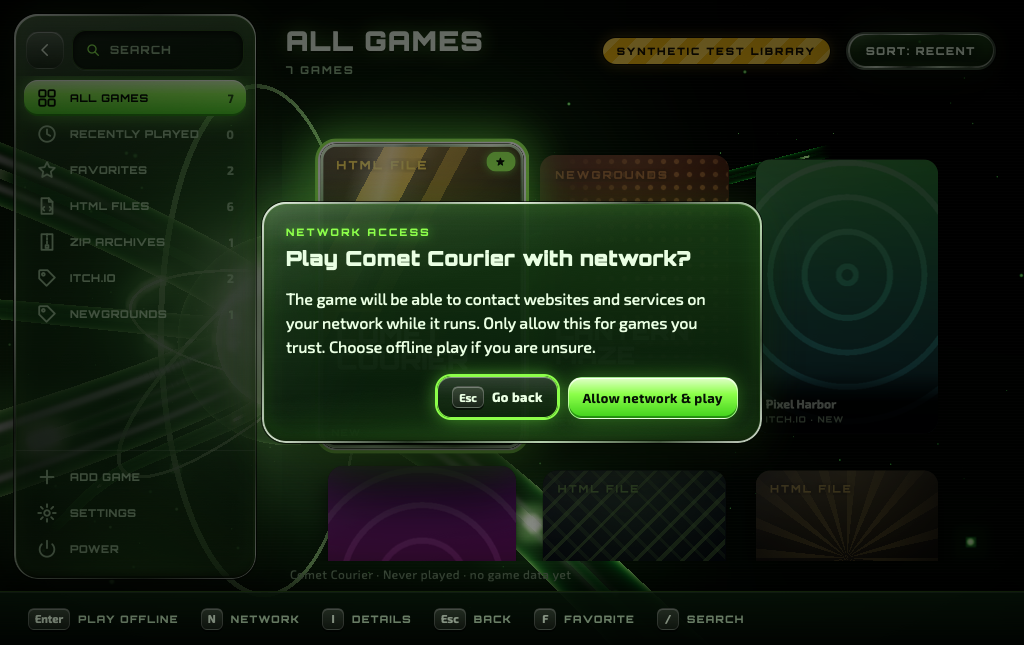
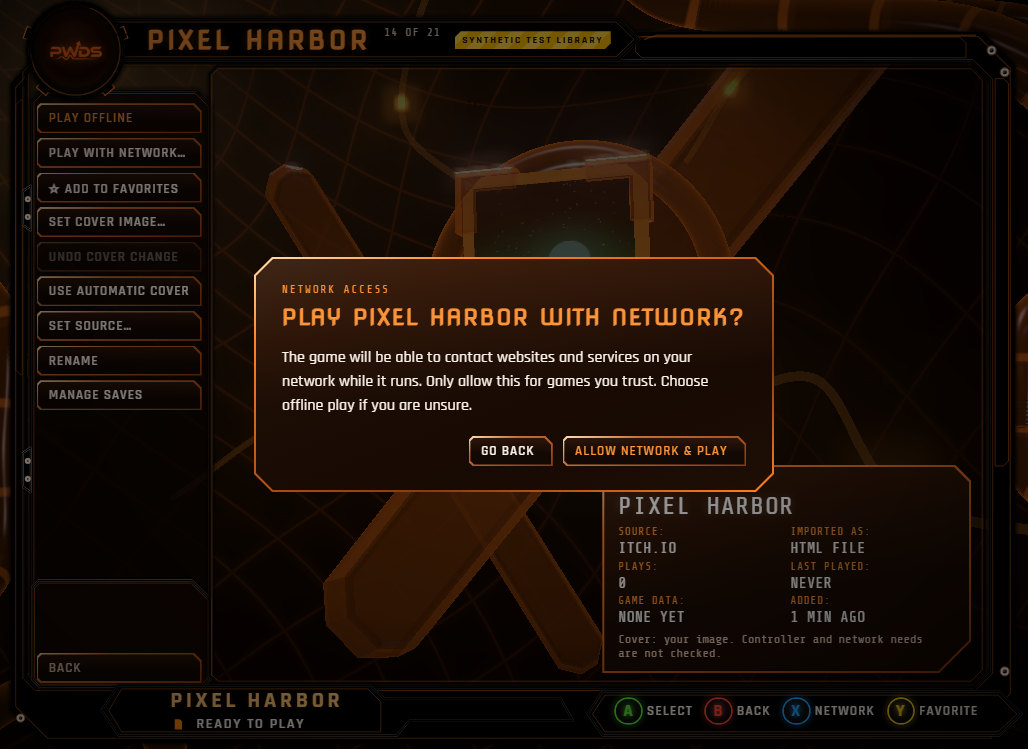
Document the Collection style with CI screenshots from all three systems
The README now describes the five styles, the dome, the cradle, the covers,
and the new input, with screenshots from Cross-platform checks run
39381032589 (Windows, Linux, and macOS), including the earlier styles. It
records how the earlier styles were shown to be unchanged, the new test
counts, credits for three.js and the bundled fonts, and the limits of this
design (panels in front of the WebGL scene, CI-only verification). The
Platforms table points at the same run.

diff --git a/README.md b/README.md
@@ -5,7 +5,7 @@
 <h1 align="center">GameStrike</h1>
 
 <p align="center"><strong>A console-style home for the HTML games you download, on Windows, Linux, and macOS.</strong><br>
-Add a game from an <code>.html</code> file or a <code>.zip</code>, pick it from a 3D, console-style library with a mouse, keyboard, or controller, and play it in its own window. Offline by default, with saves kept per game. No account, no uploads.</p>
+Add a game from an <code>.html</code> file or a <code>.zip</code>, pick it from a framed game collection floating in a glowing 3D dome with a mouse, keyboard, or controller, and play it in its own window. Offline by default, with saves kept per game. No account, no uploads.</p>
 
 <p align="center">
   <a href="#what-works-today">What works</a> ·
@@ -18,7 +18,7 @@ Add a game from an <code>.html</code> file or a <code>.zip</code>, pick it from 
   <a href="#credits-and-license">Credits</a>
 </p>
 
-![GameStrike library: a glass sidebar with search and filters (All games, Recently played, Favorites, HTML files, ZIP archives, Newgrounds, itch.io) beside a grid of portrait covers, over a dark 3D scene with a glowing green core, orbiting rings, and energy conduits](docs/screenshots/library.png)
+![GameStrike's default Collection style in PWDS orange: a thick bevelled orange frame with the PWDS logo in a round emblem and a GAME COLLECTION header tab, a sidebar of chamfered filter rows (Search games, All games selected, Recently played, Favorites, HTML files, ZIP archives, Game jam, itch.io, Newgrounds), a dense grid of illustrated covers with the selected one in a glowing orange frame, and a bottom bar with the game's title, Ready to play, and A Select, B Back, X Filter, Y Sort prompts, over a dark warped net with glossy tubes](docs/screenshots/library.png)
 
 > [!IMPORTANT]
 > **Early, unreleased software.** There is no installer or signed binary yet; you build it from source. Imported games are untrusted code. Offline mode blocks their network traffic, but the player is **not** an operating-system sandbox. Read [Limitations](#limitations) before running games you don't trust.
@@ -30,44 +30,51 @@ Everything in this section is implemented in this repository and covered by the 
 **Library**
 - Add a game through the native file picker: a single `.html`/`.htm` file, or a `.zip` with `index.html` at its root or inside one wrapper folder. GameStrike copies the files into its own library; your original download is never modified.
 - Re-adding the exact same file is recognized, and the game keeps its saves.
-- Browse a **3D console-style library**, an original homage to the 2001 console dashboard crossed with a cover-grid game launcher:
-  - A real-time WebGL scene behind everything (bundled three.js): a dark green void, a pulsing core with orbiting rings, translucent energy conduits with travelling pulses, drifting wisps, and bloom. The camera flies between the library, a game's details, saves, settings, and About, and the interface moves with it in 3D.
-  - A green-glass sidebar with chrome rims: search, then filters built from your library (*All games*, *Recently played*, *Favorites*, *HTML files* and *ZIP archives*, and each source you note, such as *itch.io*), with *Add game*, *Settings*, and *Power* at the bottom. It collapses to icons.
-  - A dense grid of portrait covers that reflows from 880 × 620 to fullscreen. The focused cover lifts toward the camera with a chrome and green-glow rim and a light sweep; its neighbours recede.
-  - Wide techno headings (Orbitron) and a clean text face (Exo 2), both bundled under the SIL Open Font License.
-  - A startup sequence with the GameStrike mark in front of the core, skippable with any key, click, or button.
-- **Covers.** A game with no art gets generated box art: a curated palette, a geometric motif, and its full title in the display face. An image in the game's own files (for example `icon.png` or `thumbnail.png`) becomes its cover automatically, and you can set your own from a local image, then undo or reset it. Every cover image is untrusted: it is decoded by memory-safe Rust code with size limits and re-encoded as a new PNG inside the library.
-- **Favorites and sources.** Mark favorites, and note where a game came from (1 to 32 characters); both become sidebar filters.
+- Five dashboard **styles**, chosen in *Settings* and remembered per library:
+  - **Collection: PWDS Orange** (default). One thick, bevelled glass-and-metal frame fills the window, styled after the 2001 console dashboard: hard 45-degree chamfers and double edges instead of rounded corners, a wide square typeface, solid orange selection, and the PWDS logo in a round emblem beside a *Game Collection* header tab. A sidebar of chamfered filter rows (*Search games*, *All games*, *Recently played*, *Favorites*, *HTML files*, *ZIP archives*, and each source you note, such as *itch.io*), with *Add game*, *Settings*, and *Power* in their own panel; a dense, scrolling grid of portrait covers (seven columns at full size) where the selected cover gets a thick glowing frame and lifts toward the camera; and a bottom bar with the selected game's title and status and the prompts.
+  - **Collection: Green.** The same frame in green, with the GameStrike mark in the emblem.
+  - **Blades**, **Original**, and **PWDS Orange**: the earlier Xbox 360-inspired blades dashboard, the 2001-inspired orb and menu style, and the blades layout in orange, unchanged.
+- **The dome.** Behind the frame, a real-time WebGL scene (bundled three.js) puts you inside a large sphere whose wall carries an irregular, glowing net that curves around and behind you and fades into fog, lit from behind the emblem, with glossy glass tubes wrapping the frame and bloom on the bright parts. The frame drifts with the camera while the far net shows parallax, and moving to a game's details is a camera flight through the dome.
+- **Game details** (A or Enter on a cover): the cover seated in a 3D cradle of translucent glass plates, claws, and cables; an info panel with the source, how it was imported, plays, last played, game data, and when it was added; and *Play offline*, *Play with network…*, favorite, cover, source, rename, and *Manage saves* (game data, clear saves, remove). A removal can keep the saves, so adding the same file again brings them back.
+- **Covers.** A game with no art gets illustrated box art drawn by GameStrike: a scene picked from the title (a harbour with a lighthouse for *Pixel Harbor*, a forge for *Ember Forge*), a palette that suits it, and the full title as a cover logo. An image in the game's own files (for example `icon.png` or `thumbnail.png`) becomes its cover automatically, and you can set your own from a local image, then undo or reset it. Every cover image is untrusted: it is decoded by memory-safe Rust code with size limits and re-encoded as a new PNG inside the library.
+- **Favorites and sources.** Mark favorites, and note where a game came from (1 to 32 characters); both become sidebar filters. There are no rows or logos for stores GameStrike does not support.
 - Search by title, and sort by recently played, title, or date added.
-- A **detail panel** for each game: when it was added, last played, how often, how much data it has stored, and its cover kind, with play, favorite, cover, source, rename, clear saves, and remove. A removal can keep the saves, so adding the same file again brings them back.
 - Problems are reported rather than hidden. One unreadable folder doesn't hide the rest of the library, and a game whose files have disappeared shows *Files missing* and won't launch.
 
 **Playing**
 - **Play offline** (the default) opens the game in a separate `gamestrike-player` window. The game's network requests are blocked. When the game closes, the launcher says how many requests the game itself attempted, so you can decide whether it needs network access.
 - **Play with network…** asks for consent first; focus starts on *Go back*.
 - Each game has its own browser origin and profile, so `localStorage`, IndexedDB, and cookies persist across launches and never mix between games.
-- Only one game runs at a time. While it runs, the launcher shows *Playing*, pauses its 3D scene, and the game can't be removed or cleared.
+- Only one game runs at a time. While it runs, the launcher shows *Playing*, pauses its 3D scene and sounds, and the game can't be removed or cleared.
 
 **Input**
-- Mouse, keyboard (arrows, Enter, `I` details, `N` network, `F` favorite, `F2`, `Delete`, `/` or `Ctrl+F` search, `[` sidebar, `M` mute, `Esc`), and a standard-mapping controller: D-pad or stick to move through the grid and sidebar, **A** to play or select, **X** for network, **Y** for details, **B** to go back. A held button never repeats, so it can't confirm a dialog that opens underneath it. Every control has a visible focus ring and a screen-reader label.
-- Original interface sounds (move, select, open, back, launch, error), synthesized at run time from oscillators and filtered noise; no samples. Mute them with `M` or in *Settings*.
-- Reduced motion turns the 3D scene into still frames with no camera moves and makes every transition instant. High-contrast (forced colors) is respected.
-- Without WebGL 2, or if the GPU context is lost, a static painting of the scene is drawn instead and the interface works the same.
+- Mouse, keyboard (arrows, Enter, Tab between the grid and sidebar, `S` sort, `N` network, `F` favorite, `I` details, `F2`, `Delete`, `/` or `Ctrl+F` search, `M` mute, `Esc`), and a standard-mapping controller: D-pad or stick to move, **A** to select (a cover opens its details), **B** back, **X** between the grid and the filters, **Y** sort (favorite in the details). Prompts show ringed A/B/X/Y buttons after controller input and keys after keyboard input. A held button never repeats, so it can't confirm a dialog that opens underneath it. Every control has a visible focus state and a screen-reader label.
+- Original interface sounds (move, select, open, back, launch, error) and a quiet ambient hum, synthesized at run time from oscillators and filtered noise; no samples. Mute them with `M` or in *Settings*.
+- Reduced motion turns the 3D scene into still frames with no camera moves, lays the panels flat, and makes every transition instant. High-contrast (forced colors) is respected.
+- Without WebGL 2, or if the GPU context is lost, the same dome net is painted as a still image and the interface works the same.
 
 **Command line** (`gamestrike`): `import`, `list`, `rename`, `reset-saves`, `remove [--keep-saves]`, `set-source`, `favorite`, `set-cover`, `undo-cover`, and `reset-cover`.
 
 ## Screenshots
 
-Every launcher image below was rendered by the real `gamestrike-launcher` in GitHub Actions ([Cross-platform checks run 39300441701](https://github.com/Gerbzz/GameStrike/actions/runs/39300441701)) through the `--capture-preview` option: WebView2 on Windows, WebKitGTK under Xvfb on Linux, and WKWebView on macOS. Each capture's log reports that WebGL drew the backdrop at the "high" quality step on all three systems. Captures put the camera at its station and render still frames, so camera flights are not shown and the light sweep appears as a still highlight. Frame rates were not measured; CI runners are virtual machines, and the macOS runner's screen crops its captures to 1024 × 645. Every game shown is from a library marked **synthetic test data** (hence the badge) with generated box art or generated images; no third-party game or art appears. They are not mockups.
+Every launcher image below was rendered by the real `gamestrike-launcher` in GitHub Actions ([Cross-platform checks run 39381032589](https://github.com/Gerbzz/GameStrike/actions/runs/39381032589)) through the `--capture-preview` option: WebView2 on Windows, WebKitGTK under Xvfb on Linux, and WKWebView on macOS. Each Collection capture's log reports that WebGL drew the dome at the "high" quality step on all three systems. Captures render still frames with the camera at its station (the *Camera move* capture freezes the flight halfway), so the drift, the slowly turning net, and the tube pulses are not shown. Frame rates were not measured; CI runners are virtual machines, and the macOS runner crops its captures to 1024 × 645. Every game shown is from a library marked **synthetic test data** (hence the badge), with box art GameStrike drew and two test images it generated; no third-party game or art appears. They are not mockups.
 
 | | |
 | --- | --- |
-| ![The focused cover lifted toward the camera with a chrome and green rim and a light-sweep highlight, while the other covers shrink and dim](docs/screenshots/focus.png) **Focused cover** (Linux): it lifts toward the camera and the wall recedes. Compare with the library view above. | ![The same kind of view with controller prompts A, X, Y, B in the prompt strip](docs/screenshots/controller.png) **Controller prompts** (Windows): after pad input the strip shows A, X, Y, B instead of keys. |
-| ![Detail panel with the box art and its reflection, the title, and a large Play offline button over a glass body of facts and actions, the library turned away behind it](docs/screenshots/detail.png) **Game details** (Linux). The camera and library turn as the panel flies in. | ![Startup: the GameStrike mark in front of the glowing core, with glass conduits and GAMESTRIKE by PWDS](docs/screenshots/boot.png) **Startup** (Linux), near its end. |
-| ![Network consent dialog over the library](docs/screenshots/network-dialog.png) **Network consent** (macOS). Offline is the default. | ![Favorites filter showing two games](docs/screenshots/favorites.png) **Favorites** filter (Windows). |
-| ![Sidebar collapsed to icons beside a wider grid](docs/screenshots/collapsed.png) **Collapsed sidebar** (Linux). | ![Search results for orbit](docs/screenshots/search.png) **Search** (macOS). |
-| ![About dialog with the GameStrike mark and the PWDS publisher logo](docs/screenshots/about.png) **About** (Linux), with the publisher credit. | ![Empty library with an Add a game button](docs/screenshots/empty-library.png) **First launch** (Windows). |
-| ![Library at the 880 by 620 minimum window size](docs/screenshots/minimum-880x620.png) **Minimum window size**, 880 × 620 (Linux). | ![Player window titled Save Counter (Synthetic Test), GameStrike, Offline, showing localStorage points 2 and IndexedDB opens 1](docs/screenshots/player-offline-save-counter.png) **A game in its own offline player window** (Windows, from the manual run at `c888e7e`; the player is unchanged). |
+| ![Collection style in green: the same frame, sidebar, and grid in green, with the GameStrike mark in the emblem](docs/screenshots/green.png) **Collection: Green** (Linux), the colour variant. | ![The grid with keyboard prompts Enter Select, Esc Back, Tab Filter, S Sort in the bottom bar](docs/screenshots/focus.png) **Keyboard prompts** (Windows): after keyboard input the bar shows keys instead of A, B, X, Y. |
+| ![Game details: the cover seated in a translucent orange glass cradle with claws, a collar ring, an arm, and cables, the actions as chamfered slabs on the left, and an info panel with source, imported as, plays, last played, game data, and added](docs/screenshots/detail.png) **Game details** (Linux): the cover in its 3D cradle, with the info panel and actions. | ![The same view halfway through the camera move from the grid: the grid and sidebar fading back while the cradle arrives](docs/screenshots/moving.png) **Camera move** (Windows), frozen halfway from the grid to the cradle. |
+| ![Saves panel with game data, what is stored, Clear saves, Remove from library, and Back to game](docs/screenshots/saves.png) **Manage saves** (Linux). | ![The Game jam source filter selected in the sidebar, with its two games in the grid](docs/screenshots/filters.png) **A source filter** (Windows): sources the player wrote become sidebar rows. |
+| ![Search results for orbit](docs/screenshots/search.png) **Search** (macOS). | ![Settings panel with Style: Collection: PWDS Orange, Sounds, About, and Back](docs/screenshots/settings.png) **Settings** (Linux): style, sounds, and About. |
+| ![Network consent dialog over the game's details](docs/screenshots/network-dialog.png) **Network consent** (Windows). Offline is the default. | ![Startup: the GameStrike mark in a glowing orange core inside rings, with GAMESTRIKE by PWDS](docs/screenshots/boot.png) **Startup** (Linux), near its end. |
+| ![Empty library with an Add a game button](docs/screenshots/empty-library.png) **First launch** (Windows). | ![Library at the 880 by 620 minimum window size, five columns, with the status line in the bottom bar](docs/screenshots/minimum-880x620.png) **Minimum window size**, 880 × 620 (Linux). |
+| ![About dialog with the GameStrike mark, the PWDS publisher logo, and the font and three.js credits](docs/screenshots/about.png) **About** (macOS). | ![Player window titled Save Counter (Synthetic Test), GameStrike, Offline, showing localStorage points 2 and IndexedDB opens 1](docs/screenshots/player-offline-save-counter.png) **A game in its own offline player window** (Windows, from the manual run at `c888e7e`; the player is unchanged). |
+
+**The earlier styles**, unchanged and still selectable (same run, Linux):
+
+| | |
+| --- | --- |
+| ![Blades style: channel names at the top left and a row of receding tiles](docs/screenshots/style-blades.png) **Blades**. | ![Original style: a glowing green orb with menu bars fanned beside it on a green wireframe sphere](docs/screenshots/style-original.png) **Original**, main menu. |
+| ![Original style My Games sub-screen with ruled rows and an info box](docs/screenshots/style-original-games.png) **Original**, My Games. | ![PWDS Orange style: the blades layout in orange](docs/screenshots/style-pwds.png) **PWDS Orange**. |
 
 Screenshots of earlier designs are kept in [docs/history](docs/history).
 
@@ -77,9 +84,9 @@ Only platforms that GitHub Actions has built **and** tested, including the real 
 
 | Platform | Engine | Status | Evidence |
 | --- | --- | --- | --- |
-| Windows (CI: `windows-latest`, Windows Server 2025 image) | WebView2 | **Supported** | [CI run 39261168566, windows job](https://github.com/Gerbzz/GameStrike/actions/runs/39261168566/job/118088878425): fmt, clippy, Rust and JS tests, real-player isolation test, release build, player smoke test, launcher captures |
-| Linux x64 (CI: `ubuntu-latest`, Ubuntu 24.04) | WebKitGTK 4.1 (2.52.6 in CI) | **Supported** | [same run, ubuntu job](https://github.com/Gerbzz/GameStrike/actions/runs/39261168566/job/118088878299): the same steps, with the player and launcher windows under Xvfb |
-| macOS 14 or later (CI: `macos-latest`, macOS 26.6 on Apple silicon; 14 and 15 not tested) | WKWebView | **Supported** | [same run, macOS job](https://github.com/Gerbzz/GameStrike/actions/runs/39261168566/job/118088877675): the same steps |
+| Windows (CI: `windows-latest`, Windows Server 2025 image) | WebView2 | **Supported** | [CI run 39381032589, windows job](https://github.com/Gerbzz/GameStrike/actions/runs/39381032589/job/118489949975): fmt, clippy, Rust and JS tests, real-player isolation test, release build, player smoke test, launcher captures |
+| Linux x64 (CI: `ubuntu-latest`, Ubuntu 24.04) | WebKitGTK 4.1 (2.52.6 in CI) | **Supported** | [same run, ubuntu job](https://github.com/Gerbzz/GameStrike/actions/runs/39381032589/job/118489950087): the same steps, with the player and launcher windows under Xvfb |
+| macOS 14 or later (CI: `macos-latest`, macOS 26.6 on Apple silicon; 14 and 15 not tested) | WKWebView | **Supported** | [same run, macOS job](https://github.com/Gerbzz/GameStrike/actions/runs/39381032589/job/118489949742): the same steps |
 
 Platform caveats that apply even when a platform is verified:
 - **Linux and macOS:** WebRTC is switched off for games in both offline and network mode, because WebKit offers no way to limit its UDP to the proxy. Games that need WebRTC will not work there.
@@ -143,7 +150,7 @@ bash scripts/hosted-library-capture.sh target/release /tmp/gamestrike-capture
 | Files | Only canonical files inside that game's content folder are served. `file://` fetches, frames, and navigation are blocked, as are other origins, popups, downloads, permission prompts, and external protocol launches. |
 | Offline mode | A strict Content-Security-Policy (only the game's own origin plus `data:`/`blob:`) on every response, plus a proxy owned by the player that answers every HTTP, HTTPS, and WebSocket connection with 403, including loopback. WebRTC is restricted to proxied traffic, which blocks its UDP. |
 | Network mode | Only plugins and base-URL changes are restricted. The game can reach the network, and you are told so first. |
-| Launcher | Serves only its bundled files (UI, the vendored three.js, fonts) under `default-src 'none'`, plus cover PNGs that GameStrike encoded, by game ID only. It accepts eleven JSON commands, and only from its own origin. The page never supplies a file path; Rust validates every game ID. The 3D scene is decoration and never receives game content. |
+| Launcher | Serves only its bundled files (the two style pages and their scripts and styles, the vendored three.js, fonts) under `default-src 'none'`, plus cover PNGs that GameStrike encoded, by game ID only. It accepts eleven JSON commands, and only from its own origin. The page never supplies a file path; Rust validates every game ID. The 3D scene is decoration; the only game content it receives is the selected game's cover. |
 | Covers | Untrusted cover images are decoded only by the memory-safe Rust `image` crate (PNG, JPEG, GIF, WebP; 16 MiB per file, 8192 px per side, 256 MiB of decoder memory), scaled to fit 600 × 900, and re-encoded as a new PNG inside the library. SVG and HTML are refused. |
 | Imports | Rejects path traversal (zip-slip), absolute and drive paths, Windows device names, links and special files, case-insensitive duplicates, ambiguous entry points, unsupported compression, zip bombs (expansion ratio and size limits), and corrupt archives. Extraction is staged and published atomically. |
 | Integrity | The player refuses to open imported games from an elevated (high-integrity) process. |
@@ -157,8 +164,8 @@ Linux and macOS results come from CI only; see [Platforms](#platforms) and the p
 Results as of 2026-10-17 on Windows 11 Pro, WebView2 runtime as installed on the dev PC and on GitHub's `windows-latest` runner.
 
 **Automated, all passing in [cross-platform CI](https://github.com/Gerbzz/GameStrike/actions/workflows/cross-platform.yml) on Windows, Linux, and macOS:**
-- Rust: 36 library tests, 14 player tests (15 on Linux and macOS), 8 launcher tests, and 2 player command-line tests, plus the real-player isolation test. Besides the areas below, they cover cover decoding and its limits (including a forged 9000 × 9000 PNG header), custom, automatic, undone, and reset covers, sources and favorites, the cover endpoint, and that every bundled UI file is served and every module import resolves. They cover zip-slip, drive paths, device names, corrupt and empty files, expansion limits, duplicate and legacy re-imports, removal with and without saves, restoring kept saves, clearing saves, the per-game lock, rename validation, tolerant scanning, missing files, the launcher's origin and command allow-list, and CSP headers.
-- JavaScript: 16 tests of sorting, search, the sidebar filters built from library data, the source rule, cover URLs, grid reflow and list movement, the earlier shelf and perspective helpers, controller edge detection and repeat, generated covers, and formatting.
+- Rust: 38 library tests, 14 player tests (15 on Linux and macOS), 9 launcher tests, and 2 player command-line tests, plus the real-player isolation test. Besides the areas below, they cover cover decoding and its limits (including a forged 9000 × 9000 PNG header), custom, automatic, undone, and reset covers, sources and favorites, the cover endpoint, that every bundled UI file is served and every module import resolves, and that the earlier styles' capture views open their own page. They cover zip-slip, drive paths, device names, corrupt and empty files, expansion limits, duplicate and legacy re-imports, removal with and without saves, restoring kept saves, clearing saves, the per-game lock, rename validation, tolerant scanning, missing files, the launcher's origin and command allow-list, and CSP headers.
+- JavaScript: 22 tests of sorting, search, the sidebar filters built from library data, the source rule, cover URLs, grid reflow and list movement, the style list and its cycle, the Collection scale and column count, the generated box art rules, the seeded random generator, the dome net, the earlier shelf and perspective helpers, controller edge detection and repeat, and formatting.
 - **Real player isolation test** (`tests/player_isolation.rs`). It runs the real WebView2 player against a bundled probe page, with a harness listening on loopback over TCP and UDP.
   - Offline, twice: 0 TCP and 0 UDP connections reached the harness. Fetch, XHR, WebSocket, image, `file://`, other-origin requests, and popups were all blocked.
   - Network mode, as a control: the same probe reached the harness (8 TCP connections, 4 UDP packets), which shows the offline zeros mean "blocked", not "unobservable".
@@ -175,7 +182,9 @@ Results as of 2026-10-17 on Windows 11 Pro, WebView2 runtime as installed on the
 
 That run found two issues, both fixed in `bc6fd31`: the offline summary counted WebView2's own background requests as the game's, and the corrupt-ZIP error was too technical.
 
-**Not yet verified by hand:** the 3D library has been rendered and captured from the real launcher in CI on all three systems, and its keyboard flow was exercised in a browser preview with a stubbed IPC, but it has not been driven interactively in the real app. The manual run above used the earlier design. Rename, clear saves, remove, duplicate re-import, network launch, and a physical controller were checked only by automated tests.
+**The earlier styles are unchanged.** The baseline run [39336633107](https://github.com/Gerbzz/GameStrike/actions/runs/39336633107) captured Blades, Original, and PWDS Orange before this work, under the same file names the later runs use (`legacy-*.png`). Run to run, the Windows and macOS captures of those styles differ only in the profile clock and in where the animated bokeh and glow happen to be (under 1.2 % of pixels, inside the same regions), which is also how much two runs of the unchanged baseline differ from each other. The Linux captures vary much more between any two runs, baseline included, because Xvfb captures the Blades and Original views at different points of their CSS animations. To rule that out, the pages before and after were also rendered side by side in Chrome with a fixed clock and every animation frozen at the same instant: all nine views (Blades, System, Manage, Original, Original's My Games, PWDS Orange, and the three startups) were pixel-identical. `classic.css` is byte-identical to the old stylesheet.
+
+**Not yet verified by hand:** the Collection style has been rendered and captured from the real launcher in CI on all three systems, and its keyboard flow was exercised in a browser preview with a stubbed IPC, but it has not been driven interactively in the real app. The manual run above used an earlier design. Rename, clear saves, remove, duplicate re-import, network launch, and a physical controller were checked only by automated tests.
 
 ## Limitations
 
@@ -183,14 +192,16 @@ That run found two issues, both fixed in `bc6fd31`: the offline summary counted 
 - WebView2 still defines `window.chrome.webview` in game pages. GameStrike registers nothing behind it, but the object exists.
 - In network mode, the runtime's own requests for the game's origin outside the custom protocol resolve to `localhost` and could reach a local server on port 443.
 - Controller support and network needs are shown as *not checked* for every game; GameStrike does not inspect games.
-- Generated box art is decoration (a palette, a motif, and the title, chosen from the game ID), not the game's own artwork.
-- The 3D library was checked only through CI captures on virtual machines. It has not been run by hand on real hardware, and its frame rate on integrated GPUs has not been measured; the automatic quality steps are untested there. In one early CI run the Windows runner lost its WebGL context once, and the static fallback drew that capture.
-- The interface panels are HTML and CSS 3D in front of the WebGL scene, not meshes inside it, so they glow with CSS shadows rather than the scene's bloom, and WebKit (Linux and macOS) does not blur the scene behind 3D-transformed panels.
+- Generated box art is decoration (a scene picked from a word in the title, or from the game ID, with the title on it), not the game's own artwork.
+- The Collection style was checked only through CI captures on virtual machines and a browser preview. It has not been run by hand on real hardware, and its frame rate on integrated GPUs has not been measured; the automatic quality steps are untested there.
+- The frame and panels are HTML, SVG, and CSS 3D in front of the WebGL scene, not meshes inside it. They glow with SVG filters rather than the scene's bloom, and the 3D tubes can only show around the frame, never in front of it as they do in the reference concept.
 - See [Platforms](#platforms) for which operating systems are verified. No installer, code signing, auto-update, or app icon resource yet.
 
 ## Credits and license
 
-GameStrike is published by [PWDS (ProWebDevSolutions)](https://prowebdevsolutions.com). The geometric GameStrike mark is original artwork for this project. The PWDS logos in `assets/branding` are the official PWDS assets and are not covered by any open-source license. The *Blades* and *Original* styles are original recreations inspired by the look of the Xbox 360 and original Xbox dashboards. They use no Microsoft logos, artwork, sounds, or fonts, and GameStrike is not affiliated with or endorsed by Microsoft; Xbox is a trademark of Microsoft Corporation. The colored A/B/X/Y glyphs follow the common controller color convention and are drawn in CSS.
+GameStrike is published by [PWDS (ProWebDevSolutions)](https://prowebdevsolutions.com). The geometric GameStrike mark is original artwork for this project. The PWDS logos in `assets/branding` are the official PWDS assets and are not covered by any open-source license; the Collection: PWDS Orange style shows the PWDS logo in its emblem. The *Collection*, *Blades*, and *Original* styles are original recreations inspired by the look of the original Xbox and Xbox 360 dashboards, and the Collection layout follows a concept by the project owner. They use no Microsoft logos, artwork, sounds, or fonts, and GameStrike is not affiliated with or endorsed by Microsoft; Xbox is a trademark of Microsoft Corporation. The colored A/B/X/Y glyphs follow the common controller color convention and are drawn in CSS.
+
+The launcher bundles [three.js](https://threejs.org) r170 (MIT) and the fonts [Nova Square](https://fonts.google.com/specimen/Nova+Square), [Rajdhani](https://fonts.google.com/specimen/Rajdhani), and [Share Tech Mono](https://fonts.google.com/specimen/Share+Tech+Mono) (SIL Open Font License 1.1); see [THIRD_PARTY_NOTICES.md](THIRD_PARTY_NOTICES.md) for versions and license files.
 
 Built with [Wry](https://github.com/tauri-apps/wry) and [Tao](https://github.com/tauri-apps/tao) (Apache-2.0/MIT), [webview2-com](https://github.com/wravery/webview2-rs) (MIT), [zip](https://github.com/zip-rs/zip2) (MIT), and [serde](https://serde.rs) (Apache-2.0/MIT). The README layout takes cues from [PhotoCraft](https://github.com/storytold/photocraft): a status callout, features kept separate from limitations, and command-first build steps. No code or assets were copied from it.
 
